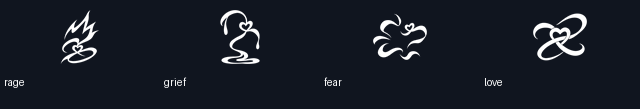
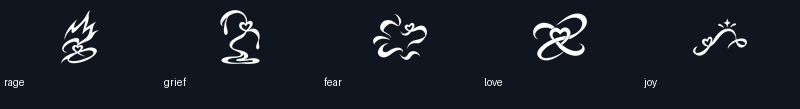
art: draw Joy feeling test glyph leaping toward an apex spark

diff --git a/art/_archive/deliveries/2026-11-12/HANDOFF.md b/art/_archive/deliveries/2026-11-12/HANDOFF.md
@@ -2,13 +2,13 @@
 
 **Destination: `art/briefs-complete`; keep develop and the implementer branch untouched.** The prompt file was found on `claude/charming-gauss-hbq4n0` at `dd35e4b8`; it was safely fast-forwarded into this art branch. No force pushes. Fetch current refs and preserve any subsequent implementer work before continuing.
 
-Actual delivered: **15/21**. Every delivered image was generated with image_gen, shown in chat, technically exported, validated, committed and pushed before the next render. New art is review-candidate with production_approved:false. The exact delivered list is progress.json; production selections and source/reference hashes are manifest.json.
+Actual delivered: **16/21**. Every delivered image was generated with image_gen, shown in chat, technically exported, validated, committed and pushed before the next render. New art is review-candidate with production_approved:false. The exact delivered list is progress.json; production selections and source/reference hashes are manifest.json.
 
 ## Next work
 
-Next image: **`feeling-joy`**.
+Next image: **`feeling-calm`**.
 
-Remaining ordered queue: `feeling-joy`, `feeling-calm`, `module-split`, `module-ricochet`, `module-orbit`, `module-echo`.
+Remaining ordered queue: `feeling-calm`, `module-split`, `module-ricochet`, `module-orbit`, `module-echo`.
 
 Read `art/AGENTS.md`, `art/README.md`, `art/style-guide/PHC-Style-Guide.md`, `art/icons/STYLE-LOCK.md`, `art/briefs/GPT-PROMPTS-2026-11-12.md` and its linked current request/rules documents. Read queue.json in this folder: it contains exact prompts, reference paths and delivered flags. **Do not skip Both Hands just because its id exists:** its replacement is already delivered here and its stand-in is preserved in art/_archive/icons/perks/2026-11-12/. Do not rely on the Wick section heading13: the table and ART-REQUESTS enumerate11 (Rebuke, Both Hands, nine Calls).
 

diff --git a/art/_archive/deliveries/2026-11-12/README.md b/art/_archive/deliveries/2026-11-12/README.md
@@ -2,4 +2,4 @@
 
 Review candidates; production_approved:false. Source branch: claude/charming-gauss-hbq4n0, dd35e4b8. Destination: art/briefs-complete. The brief heading says13 Wick icons, but its table and ART-REQUESTS enumerate11. This run covers those11 plus the6-feeling/4-module test set; remaining Outburst art awaits Leon’s verdict. Optional maps require current tile guides. No planned equipment or campaign maps are drawn.
 
-Delivered: 15/21. See progress.json, manifest.json, queue.json, prompts/, sources/, masters/v1/ and reviews/.
+Delivered: 16/21. See progress.json, manifest.json, queue.json, prompts/, sources/, masters/v1/ and reviews/.

diff --git a/art/icons/feelings/README.md b/art/icons/feelings/README.md
@@ -6,5 +6,6 @@ Pure white ink on transparency; image_gen drawings, technically separated and re
 - `feeling-grief.png`: Grief: the ribbon falls and pools at the bottom like rain running off.
 - `feeling-fear.png`: Fear: the ribbon recoils outward from an empty centre, in broken ring fragments.
 - `feeling-love.png`: Love: two ribbons wrap around each other into one knot.
+- `feeling-joy.png`: Joy: the ribbon leaps in a high arc with a small spark at the peak.
 
 Test set only. Await Leon’s verdict before the rest, as requested in the Outburst brief.
